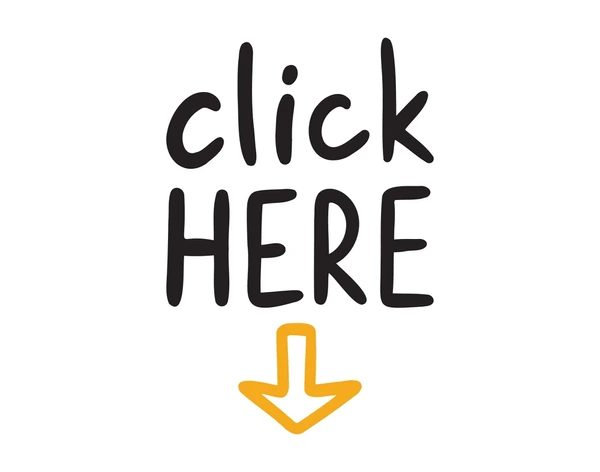
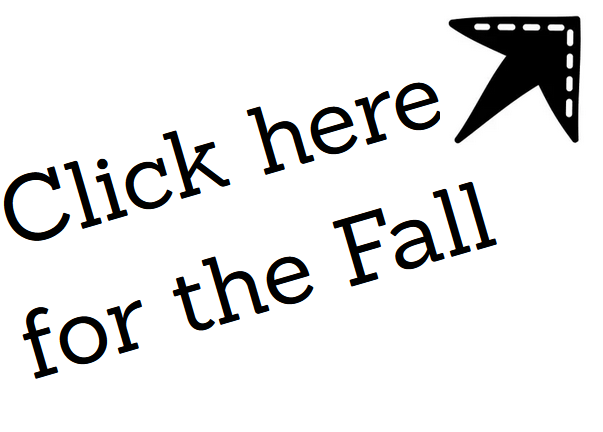
updated submit page

Changed region(s): [[0.0, 0.0301, 0.99, 0.9329], [0.03, 0.6921, 0.24, 0.8727]]

diff --git a/src/routes/submit.svelte b/src/routes/submit.svelte
@@ -1,33 +1,63 @@
 <style>
-#container{
-	display: flex;
-        width: 100%;
-        gap: 20px; 
+#container {
+    display: flex;
+    flex-direction: row;
+    justify-content: center;
+    width: 100%;
+    gap: 20px; 
+    box-sizing: border-box;
 }
 #fall, #spring {
-        flex: 1; 
-        display: flex;
-        flex-direction: column; 
-        align-items: center;  
-    }
-	img {
-		transition: .2s; 
+    width: 400px; 
+    display: flex;
+    flex-direction: column; 
+    align-items: center;  
+    justify-content: center;
+    border: 2px solid black;
+    padding: 20px;
+	margin: 35px;
+	border-radius: 25px; 
+    box-sizing: border-box;
+}
+#leaf, #flower {
+    max-height: 300px;
+    width: auto;
+}
+#fall h1, #fall p, #spring h1, #spring p {
+    margin: 10px 0 0 0;
+}
 
-		cursor: pointer;
-	}
-	img:hover{ 
-		transition: .2s; 
-		scale: 1.1;
-		transform: rotate(7deg);
-	}
+@media (max-width: 768px) {
+    #container {
+        flex-direction: column;
+        align-items: center;
+    }
+}
+button{ 
+	cursor: pointer; 
+	padding: 10px; 
+	font-size: 20px; 
+	border-radius: 12px; 
+	background-color: maroon; 
+	color: white; 
+	border: none; 
+	width: 80%; 
+	font-weight: bold; 
+	margin-top: 10px; 
+}
 </style>
+
 <div id="container">
-<div id="fall">
-<h1>Fall - October 31st </h1> 
-<img src="/fall.png" onclick= {() => window.open('https://forms.gle/n4pKV2BzDVMkhEfV7', '_blank')}>
-</div>
-<div id="spring">
-<h1>Spring - April 30th </h1> 
-<img src="/spring.png" onclick= {() => window.open('https://forms.gle/oPvN9hZEdjoEcWSt9', '_blank')}>
-</div>
+    <div id="fall">
+        <img src="/fall.png" id="leaf">
+        <h1>Fall Term</h1>
+        <p>Submission Deadline: October 31st</p> 
+		<button onclick={() => window.open('https://forms.gle/oPvN9hZEdjoEcWSt9', '_blank')}>Submit for Fall ↓</button> 
+    </div>
+    <div id="spring">
+        <img src="/spring.png" id="flower">
+        <h1>Spring Term</h1>
+        <p>Submission Deadline: April 30th</p>
+		<button onclick={() =>window.open('https://forms.gle/n4pKV2BzDVMkhEfV7', '_blank')}>Submit for Spring ↓</button> 
+    </div>
 </div>
